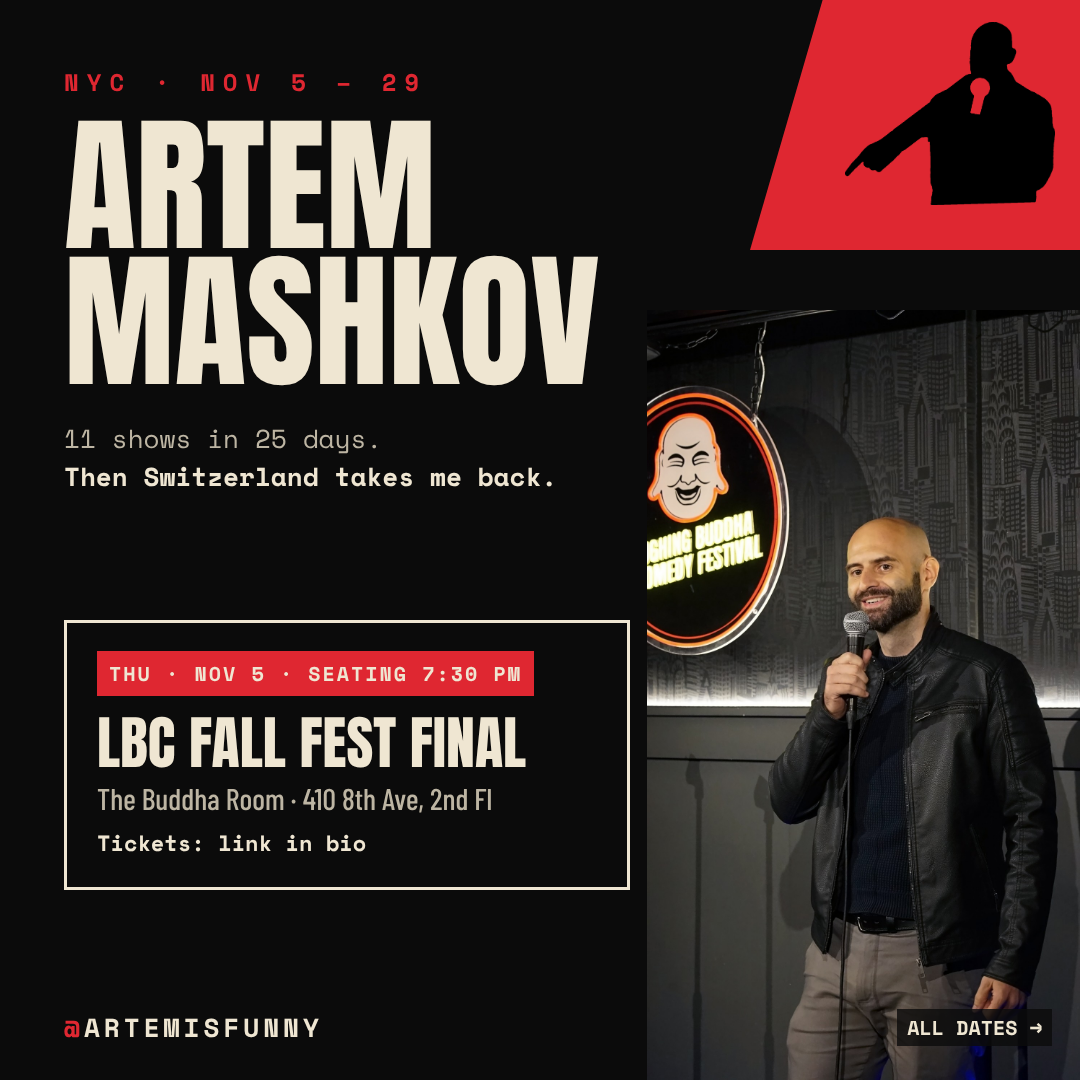
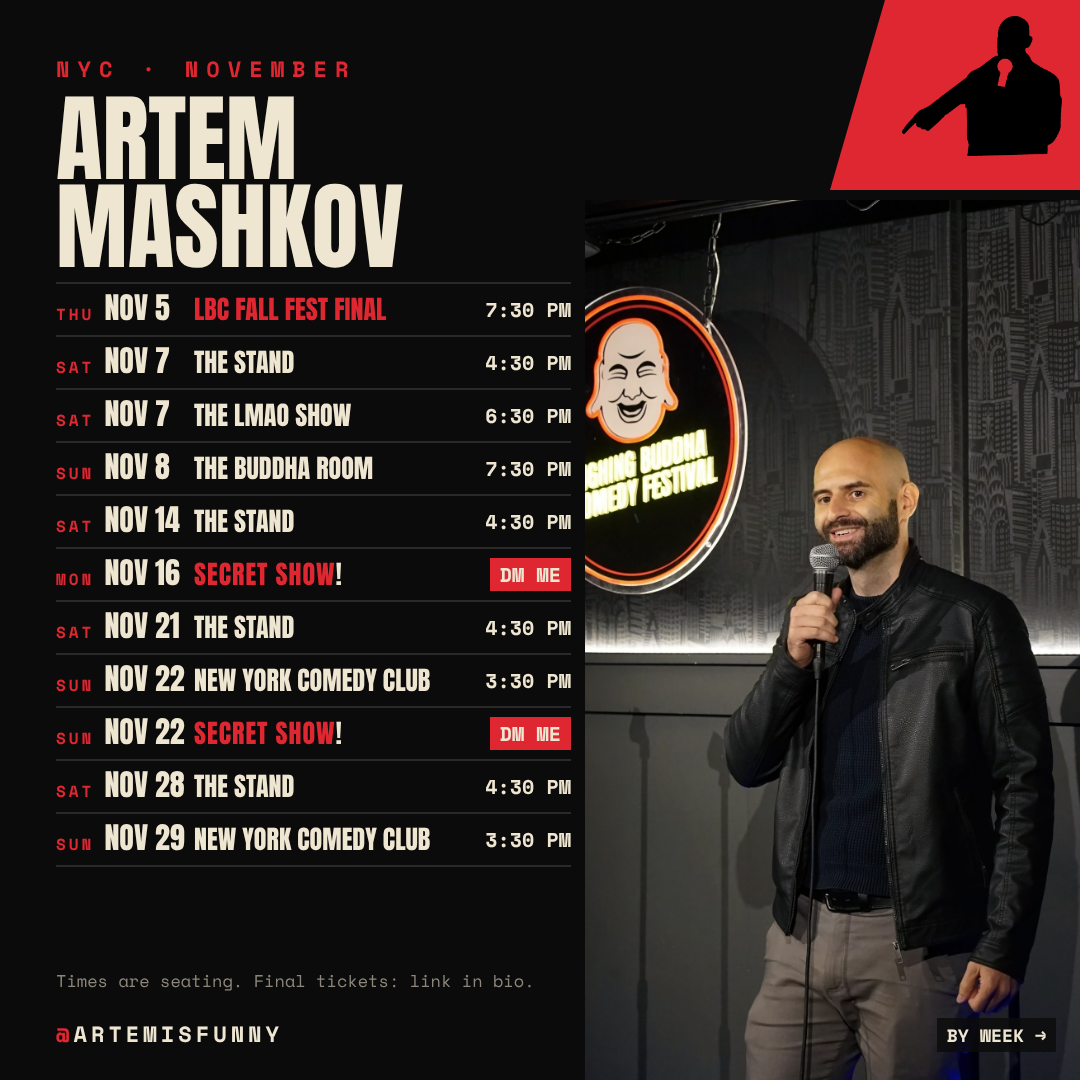
November post: all-shows cover with photo, then one slide per week
Claude-Session: https://claude.ai/code/session_01EF93tgUVhVexTD3MFBJ81b

diff --git a/nyc-november-2026/build.py b/nyc-november-2026/build.py
@@ -99,36 +99,46 @@ def page(w, h, body):
             f"<body><div class='page' style='width:{w}px;height:{h}px'>{body}</div></body></html>")
 
 
+def compact_rows(shows):
+    out = []
+    for dow, dt, seat, name, addr, note in shows:
+        out.append(f"""
+<div class="row {note}" style="padding:9px 0">
+  <div class="d" style="width:138px;display:flex;align-items:baseline;gap:10px">
+    <span class="dow" style="font-size:16px">{dow}</span><span class="dt" style="font-size:30px">{dt}</span>
+  </div>
+  <div class="v"><div class="name" style="font-size:26px">{name}</div></div>
+  <div class="s"><div class="t" style="font-size:20px">{seat}</div></div>
+</div>""")
+    return "".join(out)
+
+
 def cover():
     return page(1080, 1080, f"""
-{logo(330, 250, 210, 95, 22)}
-<div style="position:absolute;left:64px;top:64px">
-  <div class="kicker" style="font-size:24px">NYC · NOV 5 – 29</div>
-  <div class="anton" style="font-size:148px;line-height:.92;margin-top:18px">ARTEM<br>MASHKOV</div>
-  <div class="mono" style="font-size:26px;margin-top:30px;color:#bdb5a3;width:600px;line-height:1.45">
-    11 shows in 25 days.<br><span style="color:{CREAM};font-weight:700">Then Switzerland takes me back.</span></div>
+<img src="{PHOTO}" style="position:absolute;right:0;bottom:0;height:880px">
+{logo(250, 190, 160, 72, 16)}
+<div style="position:absolute;left:56px;top:52px">
+  <div class="kicker" style="font-size:22px">NYC · NOVEMBER</div>
+  <div class="anton" style="font-size:96px;line-height:.92;margin-top:10px">ARTEM<br>MASHKOV</div>
 </div>
-<div style="position:absolute;left:64px;top:620px;width:566px;border:3px solid {CREAM};padding:28px 30px">
-  <div class="mono" style="display:inline-block;background:{RED};color:{CREAM};font-weight:700;font-size:20px;letter-spacing:2px;padding:8px 12px;white-space:nowrap">THU · NOV 5 · SEATING 7:30 PM</div>
-  <div class="anton" style="font-size:58px;line-height:1;margin-top:18px">LBC FALL FEST FINAL</div>
-  <div class="barlow" style="font-size:30px;font-weight:500;color:#bdb5a3;margin-top:8px">The Buddha Room · 410 8th Ave, 2nd Fl</div>
-  <div class="mono" style="font-size:22px;font-weight:700;margin-top:10px">Tickets: link in bio</div>
+<div style="position:absolute;left:56px;width:515px;top:282px">
+  {compact_rows(SHOWS)}
 </div>
-<img src="{PHOTO}" style="position:absolute;right:0;bottom:0;height:770px">
-<div class="handle" style="left:64px;bottom:34px;font-size:26px"><b>@</b>ARTEMISFUNNY</div>
-<div class="mono" style="position:absolute;right:28px;bottom:34px;font-size:20px;font-weight:700;background:#0b0b0bcc;padding:4px 10px">ALL DATES →</div>
+<div class="mono" style="position:absolute;left:56px;top:968px;font-size:17px;color:#8d877b">Times are seating. Final tickets: link in bio.</div>
+<div class="handle" style="left:56px;bottom:30px;font-size:22px"><b>@</b>ARTEMISFUNNY</div>
+<div class="mono" style="position:absolute;right:24px;bottom:28px;font-size:18px;font-weight:700;background:#0b0b0bcc;padding:4px 10px">BY WEEK →</div>
 """)
 
 
-def list_slide(shows, title, outro=""):
+def list_slide(shows, title, outro="", kicker="ARTEM MASHKOV · NYC"):
     return page(1080, 1080, f"""
 {logo(250, 190, 160, 72, 16)}
 <div style="position:absolute;left:64px;top:60px">
-  <div class="kicker" style="font-size:22px">ARTEM MASHKOV · NYC</div>
+  <div class="kicker" style="font-size:22px">{kicker}</div>
   <div class="anton" style="font-size:92px;line-height:1;margin-top:10px">{title}</div>
 </div>
 <div style="position:absolute;left:64px;right:64px;top:225px">
-  {rows(shows, 48, 42, 26, 27, 15)}
+  {rows(shows, 54, 48, 28, 29, 22)}
 </div>
 <div class="handle" style="left:64px;bottom:40px;font-size:24px"><b>@</b>ARTEMISFUNNY</div>
 <div class="mono" style="position:absolute;right:64px;bottom:40px;font-size:20px;color:#8d877b">Times are seating.</div>
@@ -151,7 +161,10 @@ def story():
 """)
 
 
-OUTRO = f"""<div style="position:absolute;left:64px;top:850px">
+STAND_PHOTO = Path("/mnt/project-files/photos/stills-bank/thestand-2026-03-21/smile/stand_24_0.jpg").as_uri()
+PHOTO_BAND = f"""<img src="{STAND_PHOTO}" style="position:absolute;left:64px;top:370px;width:952px">"""
+
+OUTRO = f"""<div style="position:absolute;left:64px;top:760px">
   <div class="mono" style="font-size:22px;font-weight:700;color:{RED};letter-spacing:4px">DEC 4</div>
   <div class="anton" style="font-size:54px;margin-top:4px">DEPORTED TO SWITZERLAND</div>
 </div>"""
@@ -169,7 +182,15 @@ def render(name, html, w, h):
 
 
 if __name__ == "__main__":
+    W = [
+        ("NOV 2 – 8", SHOWS[0:4], "", "WEEK 1"),
+        ("NOV 9 – 15", SHOWS[4:5], PHOTO_BAND, "WEEK 2"),
+        ("NOV 16 – 22", SHOWS[5:9], "", "WEEK 3"),
+        ("NOV 23 – 29", SHOWS[9:11], OUTRO, "WEEK 4"),
+    ]
+    for f in OUT.glob("nov_carousel_*.png"):
+        f.unlink()
     render("nov_carousel_1_1080x1080", cover(), 1080, 1080)
-    render("nov_carousel_2_1080x1080", list_slide(SHOWS[:6], "NOV 5 – 16"), 1080, 1080)
-    render("nov_carousel_3_1080x1080", list_slide(SHOWS[6:], "NOV 21 – 29", OUTRO), 1080, 1080)
+    for i, (title, shows, extra, k) in enumerate(W, start=2):
+        render(f"nov_carousel_{i}_1080x1080", list_slide(shows, title, extra, f"{k} · ARTEM MASHKOV · NYC"), 1080, 1080)
     render("nov_story_1080x1920", story(), 1080, 1920)

diff --git a/nyc-november-2026/captions.md b/nyc-november-2026/captions.md
@@ -1,8 +1,8 @@
 # NYC November 2026 run: captions (draft, not posted)
 
-Carousel: `out/nov_carousel_1..3_1080x1080.png`. Story: `out/nov_story_1080x1920.png` (put the LBC final ticket link sticker in the empty band under the list).
+Carousel: `out/nov_carousel_1..5_1080x1080.png` (slide 1 = all shows + photo, slides 2-5 = week by week). Story: `out/nov_story_1080x1920.png` (put the LBC final ticket link sticker in the empty band under the list).
 
-Photo on the cover: LBC prelim 10/17, The Buddha Room (`photos/lbc-prelim-2026-10-17/picks/95.jpg`), same room as the final.
+Photo on the cover: LBC prelim 10/17, The Buddha Room (`photos/lbc-prelim-2026-10-17/picks/95.jpg`), same room as the final. Week 2 slide: The Stand 3/21 still `stills-bank/thestand-2026-03-21/smile/stand_24_0.jpg`.
 
 ## Caption options (pick one)
 
